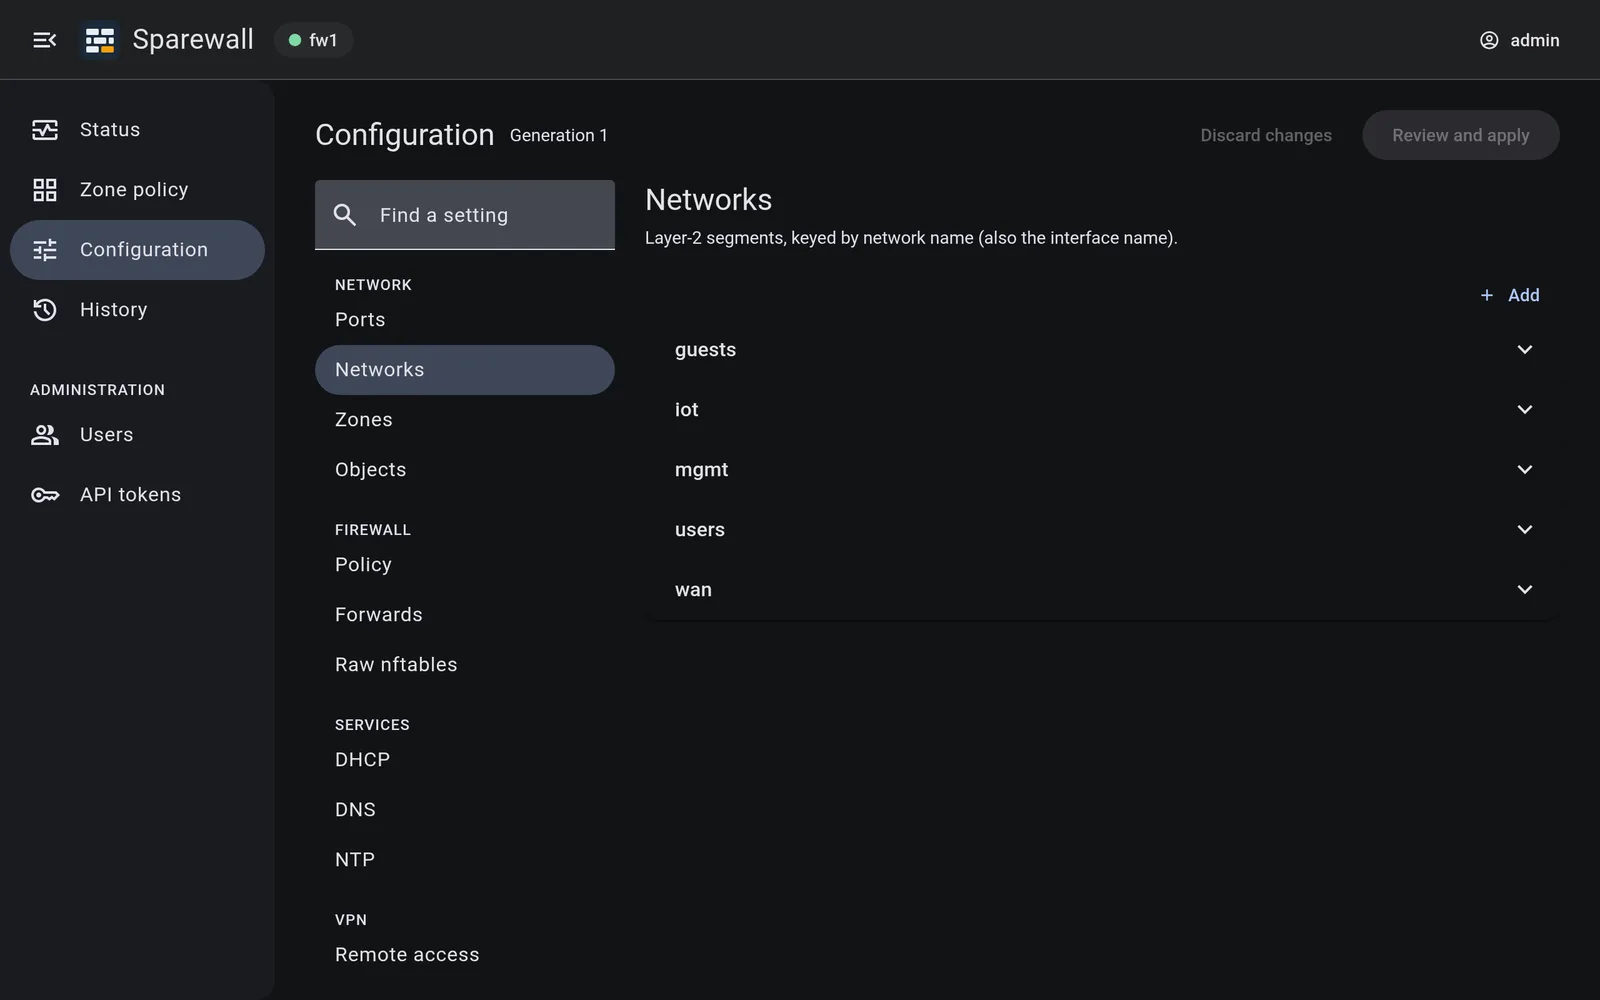
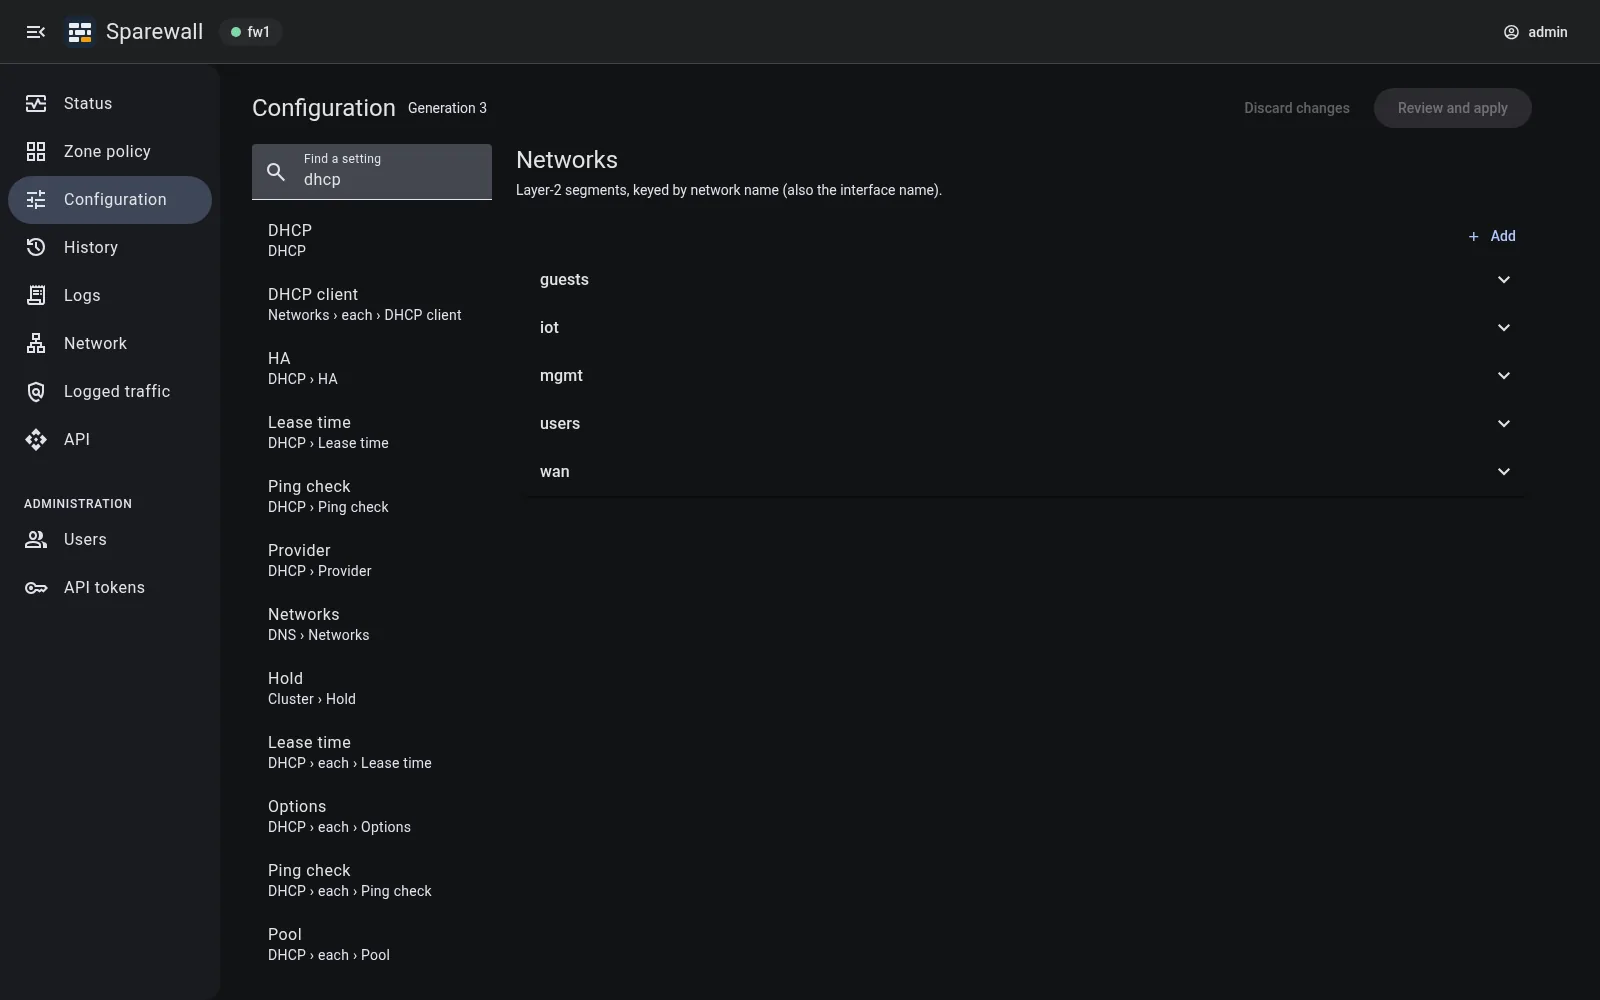
Retake the web UI screenshots from a 0.7.0 demo (#21)
* Retake the web UI screenshots from a 0.7.0 demo

The screenshots predated 0.4.0. Retake the zone policy, status and
configuration pages from the demo node on 0.7.0, and add the network
page's tools and the history page. The status page now shows its charts
of the last hour, and the configuration page its search.

* Say only earlier generations offer a rollback

Codex review: the running generation has no Roll back button.

---------

diff --git a/index.html b/index.html
@@ -180,16 +180,30 @@
           <figure class="shot">
             <picture>
               <source srcset="assets/screenshots/status-dark.webp" media="(prefers-color-scheme: dark)">
-              <img src="assets/screenshots/status-light.webp" width="1600" height="1000" loading="lazy" alt="The status page: the node is healthy, with all six checks passing, its links up, and its connection count.">
+              <img src="assets/screenshots/status-light.webp" width="1600" height="1000" loading="lazy" alt="The status page: the node's links and connection count, above charts of the last hour's traffic in and out, CPU and memory, connection tracking and rule hits.">
             </picture>
-            <figcaption><strong>Status.</strong> Health, links and connections as they change, and the history to roll back from.</figcaption>
+            <figcaption><strong>Status.</strong> Health, links and connections as they change, with charts of the last hour, day or week.</figcaption>
+          </figure>
+          <figure class="shot">
+            <picture>
+              <source srcset="assets/screenshots/network-dark.webp" media="(prefers-color-scheme: dark)">
+              <img src="assets/screenshots/network-light.webp" width="1600" height="1000" loading="lazy" alt="The network page's Tools tab: a DNS lookup of sparewall.org from the node, with its answer.">
+            </picture>
+            <figcaption><strong>Network.</strong> Neighbours and routes, ping, traceroute and DNS lookups from the node, and packet captures.</figcaption>
           </figure>
           <figure class="shot">
             <picture>
               <source srcset="assets/screenshots/config-dark.webp" media="(prefers-color-scheme: dark)">
-              <img src="assets/screenshots/config-light.webp" width="1600" height="1000" loading="lazy" alt="The configuration page: a sidebar of sections, with a search box, and the networks section open.">
+              <img src="assets/screenshots/config-light.webp" width="1600" height="1000" loading="lazy" alt="The configuration page: a search for dhcp lists every matching setting, beside the networks section.">
             </picture>
             <figcaption><strong>Configuration.</strong> A form built from the document's schema, with a search over every setting. Review the node's own dry run, then apply with a window to confirm in.</figcaption>
+          </figure>
+          <figure class="shot">
+            <picture>
+              <source srcset="assets/screenshots/history-dark.webp" media="(prefers-color-scheme: dark)">
+              <img src="assets/screenshots/history-light.webp" width="1600" height="1000" loading="lazy" alt="The history page: each generation applied, when and by whom, with its changes, and a button to roll back to each earlier one.">
+            </picture>
+            <figcaption><strong>History.</strong> Every generation applied, who applied it and what changed, and the one to roll back to.</figcaption>
           </figure>
         </div>
         <ul class="checks">
